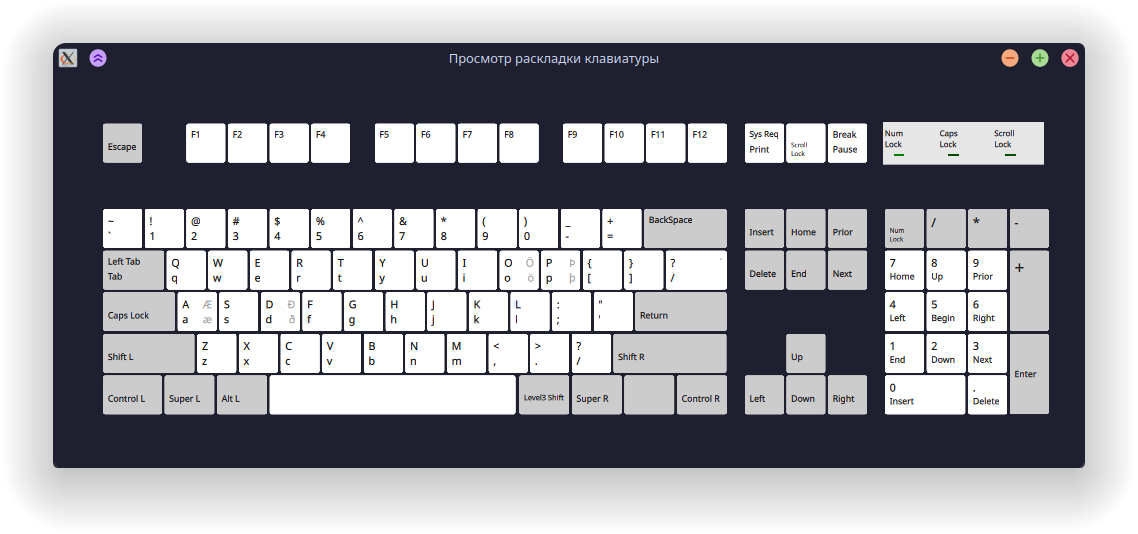
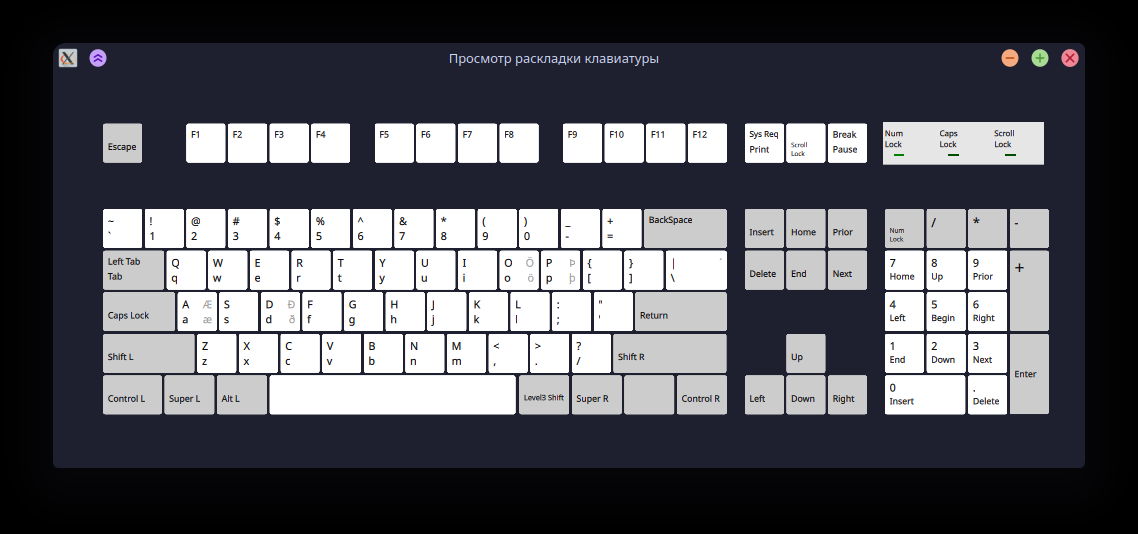
пенис

Changed region(s): [[0.0, 0.0, 1.0, 1.0]]

diff --git a/README.md b/README.md
@@ -9,7 +9,7 @@ This is a keyboard layout based on the US keyboard, but also allows inputting Ic
 AltGr-A => æ  
 AltGr-D => ð  
 AltGr-O => ö (screw this letter in particular)  
-AltGr-/ => ´ dead key, úsé ín cómbínátíón wíth vówéls!  
+AltGr-\\ => ´ dead key, úsé ín cómbínátíón wíth vówéls!  
 AltGr-P => þ
 
 ## Install Instructions
